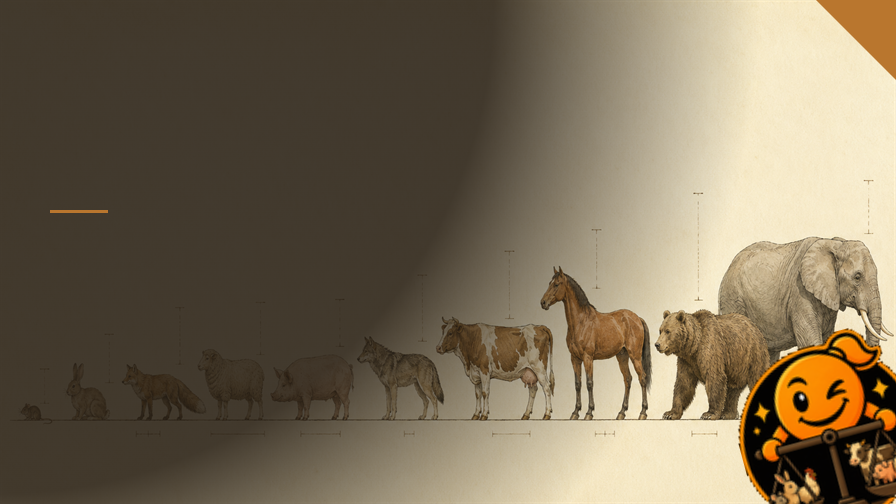
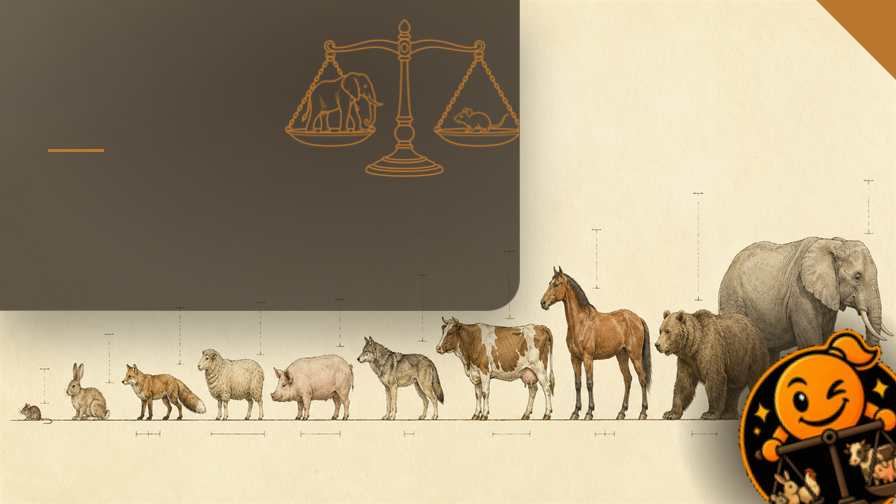
feat(preview): add showcase composition

diff --git a/Art/Preview-layout.html b/Art/Preview-layout.html
@@ -1,15 +1,30 @@
 <!doctype html><meta charset="utf-8"><style>
-:root{--veil:#241C13;--inkPrimary:#FBF6EC;--inkSecondary:#E0B97E;--accent:#B9762E;--badgeInk:#17120E}*{margin:0;padding:0;box-sizing:border-box}
+:root{--veil:#241C13;--inkPrimary:#FBF6EC;--inkSecondary:#E0B97E;--accent:#B9762E;--badgeInk:#17120E;--iconOutline:var(--accent)}*{margin:0;padding:0;box-sizing:border-box}
 html,body{width:896px;height:504px;overflow:hidden;font-family:"Segoe UI",system-ui,sans-serif}
+@font-face{font-family:"RimWorldTitle";src:url("file:///C:/Users/nelim/AppData/Local/Microsoft/Windows/Fonts/RimWordFont4.ttf") format("truetype")}
 body{background:url(Preview.png) center/cover}
-.veil{position:absolute;inset:0;background:radial-gradient(circle at 0% 0%,rgba(36,28,19,.86) 0%,rgba(36,28,19,.86) 48%,rgba(36,28,19,0) 74%)}
-.copy{position:absolute;left:50px;top:54px;width:430px;color:var(--inkPrimary);text-shadow:0 3px 10px rgba(0,0,0,.75)}
-h1{font-size:46px;font-weight:600;line-height:1.1;letter-spacing:0}
+@property --lueur{syntax:'<percentage>';inherits:false;initial-value:24%}
+.panel{position:absolute;z-index:0;inset:0 auto auto 0;width:58%;height:auto;padding:30px 3rem 20px;box-sizing:border-box;border-radius:0 0 2rem 0;overflow:hidden;isolation:isolate;background:radial-gradient(ellipse at 65% 30%,oklch(from var(--accent) var(--lueur) calc(c * .2) h / .6),transparent 70%),linear-gradient(155deg,oklch(from var(--inkPrimary) l c h / .07),transparent 35%),oklch(from var(--veil) l c h / .72);border:solid oklch(from var(--inkPrimary) l c h / .14);border-width:0 1px 1px 0;box-shadow:0 1.5rem 3rem oklch(0% 0 0 / .35);animation:panel-light-up 1.2s 2s ease-out forwards,panel-breathe 9s 3.2s ease-in-out infinite alternate}
+.panel-bottom-left{inset:auto auto 0 0;padding:20px 3rem;border-radius:0 2rem 0 0;border-width:1px 1px 0 0}
+.panel-bottom-right{inset:auto 0 0 auto;padding:20px 3rem;border-radius:2rem 0 0 0;border-width:1px 0 0 1px}
+.panel-top-right{inset:0 0 auto auto;border-radius:0 0 0 2rem;border-width:0 0 1px 1px}
+.panel>.copy{position:relative;left:auto;top:auto;width:430px}.panel>.echo{top:var(--panelEchoTop,6%);right:var(--panelEchoRight,2%);left:auto;width:var(--panelEchoWidth,50%);height:auto;aspect-ratio:var(--echoAspect,1);z-index:-1;clip-path:inset(0 100% 0 0);animation:echo-trace 1.4s 600ms ease-in-out forwards}.panel h1,.panel p{color:var(--inkPrimary)}.panel p{max-width:32ch;text-wrap:pretty}.panel .rule{width:3.5rem;height:3px;margin:1.1rem 0 1rem}
+@keyframes echo-trace{to{clip-path:inset(0)}}
+@keyframes panel-light-up{to{--lueur:32%}}
+@keyframes panel-breathe{0%{--lueur:32%}35%{--lueur:33.5%}50%{--lueur:31.5%}80%{--lueur:34%}100%{--lueur:32.5%}}
+@media (prefers-reduced-motion:reduce){.panel,.panel>.echo{animation:none}.panel>.echo{clip-path:inset(0)}.panel{--lueur:32%}}
+.copy{position:absolute;z-index:2;left:50px;top:54px;width:430px;color:var(--inkPrimary);text-shadow:0 3px 10px rgba(0,0,0,.75)}
+h1{font-size:var(--titleSize,46px);font-weight:600;line-height:1.1;letter-spacing:0}.title-main{font-family:"RimWorldTitle","Segoe UI",sans-serif;color:var(--inkPrimary);display:inline-block;line-height:var(--titleLineHeight,1.1)}.title-part{font-size:calc(var(--titleScale,1) * 1em)}.title-ui{font-family:"Segoe UI",system-ui,sans-serif}.title-secondary{color:var(--inkSecondary)}
 .suffix{font-size:.65em;color:var(--inkSecondary)}
-.tag{font-size:24px;font-weight:400;line-height:1.1;letter-spacing:.2px;margin-top:8px;color:var(--inkSecondary)}
+.suffix:empty,.tag:empty{display:none}.tag{font-size:24px;font-weight:400;line-height:1.1;letter-spacing:.2px;margin-top:8px;color:var(--inkSecondary);font-family:"Segoe UI",system-ui,sans-serif}
+.tag-inline{display:inline;font-size:.65em;font-weight:600;margin:0 0 0 .38em;vertical-align:baseline}
 .rule{width:58px;height:3px;background:var(--accent);margin:20px 0 16px}
-p{font-size:21px;font-weight:400;line-height:1.45;width:430px;letter-spacing:0;color:var(--inkPrimary)}
+p{font-family:"Segoe UI",system-ui,sans-serif;font-size:21px;font-weight:400;line-height:var(--copyLineHeight,1.45);max-width:350px;letter-spacing:0;color:var(--inkPrimary)}
+.echo{position:absolute;z-index:1;background:var(--echoColor,var(--inkSecondary));opacity:var(--echoOpacity,.16);width:var(--echoWidth,180px);height:var(--echoHeight,180px);left:var(--echoLeft,250px);top:var(--echoTop,40px);mask-image:var(--echoMask);mask-size:contain;mask-position:center;mask-repeat:no-repeat;mask-mode:var(--echoMaskMode,alpha);transform:scaleX(var(--echoScaleX,1));pointer-events:none}
+.echo-veil{position:absolute;z-index:0;width:calc(var(--echoWidth,180px) + 100px);height:calc(var(--echoHeight,180px) + 100px);left:calc(var(--echoLeft,250px) - 50px);top:calc(var(--echoTop,40px) - 50px);border-radius:48px;background:radial-gradient(ellipse 55% 65% at 65% 30% in oklch,oklch(from var(--accent) 31% calc(c * .2) h),transparent 70%),linear-gradient(to right in oklch,rgba(36,28,19,.92),rgba(36,28,19,1) 35%);mask-image:radial-gradient(ellipse closest-side at 55% 45%,#000 0%,#000 42%,transparent 100%);pointer-events:none}
+.echo-veil-accent-panel{background:radial-gradient(ellipse at 65% 30%,oklch(from var(--accent) 31% calc(c * .2) h),transparent 70%),var(--veil);mask-image:none}
+.icon-veil{position:absolute;width:var(--iconVeilSize,250px);height:var(--iconVeilSize,250px);left:var(--iconVeilLeft,auto);right:var(--iconVeilRight,auto);top:var(--iconVeilTop,auto);bottom:var(--iconVeilBottom,auto);border-radius:48px;background:radial-gradient(circle closest-side at center,rgba(36,28,19,1) 0%,rgba(36,28,19,1) 30%,rgba(36,28,19,0) 100%);pointer-events:none}
 .badge{position:absolute;right:0;top:0;width:80px;height:80px;background:var(--accent);clip-path:polygon(0 0,100% 0,100% 100%)}
 .version{position:absolute;left:869px;top:27px;transform:translate(-50%,-50%) rotate(45deg);font-size:26px;font-weight:700;line-height:1;color:var(--badgeInk)}
-.icon-badge{position:absolute;right:0;bottom:0;width:180px;transform:translate(12.5%,12.5%) rotate(-15deg)}
-</style><div class="veil"></div><div class="copy"><h1><span class="title-main">Nelim's Animals,</span><br><span class="suffix">Naturally</span></h1><div class="tag">Biology-based animal rebalancing</div><div class="rule"></div><p>Body size, lifespan, taming, and hybridisation<br>derived from each species' real mass and taxonomy.</p></div><div class="badge"></div><div class="version">1.6</div><img class="icon-badge" src="ModIcon-badge.png">
+.icon-badge{position:absolute;right:0;bottom:0;width:180px;image-rendering:auto;transform:translate(12.5%,12.5%) rotate(-15deg)}
[1 lines of base64/hex data omitted]
